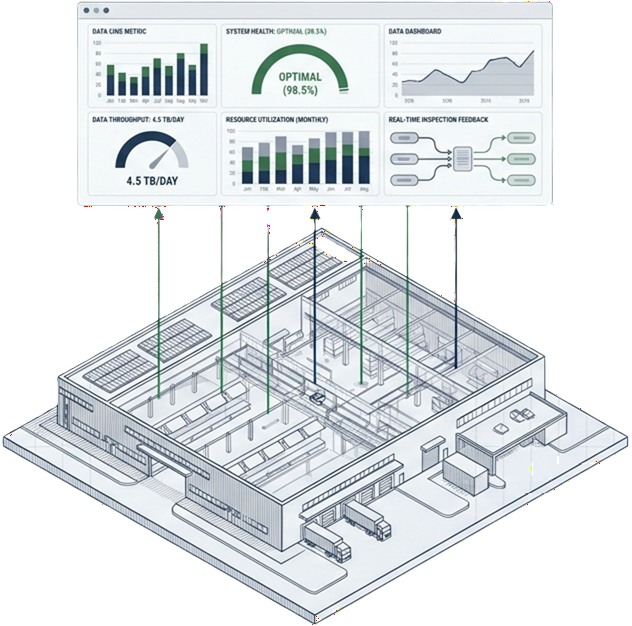
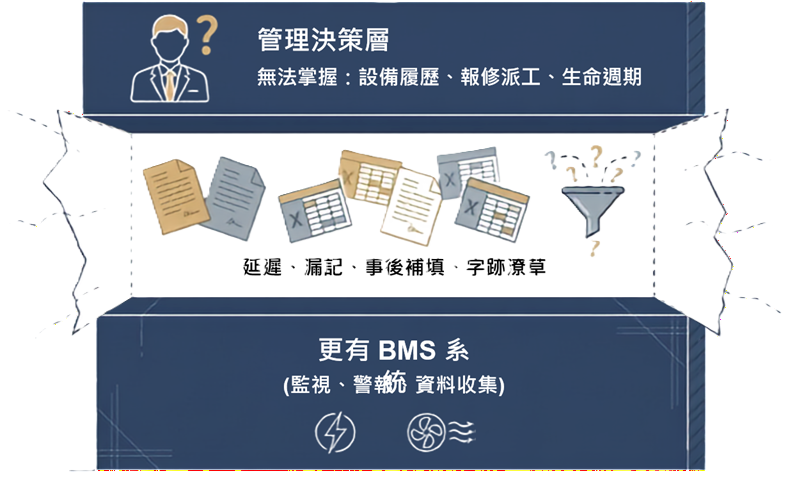
封面改為圖置中+四角缺口卡片十字排版

diff --git a/slide.html b/slide.html
@@ -178,19 +178,48 @@
 
     <!-- 封面 -->
     <section data-background-color="#020b18">
-      <div style="display:grid; grid-template-columns:1.2fr 0.8fr; gap:20px; align-items:center; height:100%;">
-        <div class="title-slide" style="text-align:left; padding-left:30px;">
-          <div class="tag">壹、緣起</div>
-          <h1 style="font-size:2.4em; line-height:1.2;">數位化巡檢管理系統</h1>
-          <h2 style="color:var(--cyan); margin-top:0.2em; font-size:1.3em;">臺北農產 · 第一果菜市場</h2>
-          <p class="subtitle" style="font-size:0.55em; margin-top:0.3em;">從基礎監控邁向全生命週期智慧管理</p>
-          <p class="author" style="text-align:left; margin-top:1.5em;">設備巡檢 / 報修 / 派工系統規劃</p>
+      <div style="display:flex; flex-direction:column; align-items:center; justify-content:center; height:100%; gap:14px;">
+        <!-- Tagline -->
+        <div class="tag" style="font-size:0.4em; background:transparent; color:var(--cyan); border:1px solid rgba(0,212,255,0.25); margin-bottom:4px;">壹、緣起</div>
+        <h2 style="font-size:0.85em; color:#cce8f4; max-width:80%; line-height:1.5; margin:0;">
+          硬體已升級，管理數據卻仍在「紙本斷層」中迷失
+        </h2>
+        <!-- Cross layout: top card -->
+        <div style="display:grid; grid-template-columns:120px 1fr 120px; gap:12px; align-items:center; width:90%; max-width:900px;">
+          <!-- left card -->
+          <div style="background:rgba(0,212,255,0.04); border-radius:8px; padding:10px; text-align:center; border-top:3px solid var(--green);">
+            <div style="font-size:1.8em; color:var(--green); margin-bottom:2px;">✓</div>
+            <div style="font-size:0.38em; color:#8ab4cc; line-height:1.5;">設備監視<br>資料蒐集<br>異常警報</div>
+          </div>
+          <!-- center image -->
+          <div style="text-align:center;">
+            <img src="assets/img/cover-art.png" alt=""
+                 style="max-width:85%; max-height:38vh; border-radius:12px;
+                        box-shadow:0 0 30px rgba(0,212,255,0.12);
+                        display:block; margin:0 auto;">
+          </div>
+          <!-- right card -->
+          <div style="background:rgba(255,179,0,0.06); border-radius:8px; padding:10px; text-align:center; border-top:3px solid var(--amber);">
+            <div style="font-size:1.8em; color:var(--amber); margin-bottom:2px;">✗</div>
+            <div style="font-size:0.38em; color:var(--amber); line-height:1.5;">缺乏<br>設備履歷<br>巡檢排程</div>
+          </div>
         </div>
-        <div style="text-align:center;">
-          <img src="assets/img/cover-art.png" alt=""
-               style="max-width:90%; max-height:55vh; border-radius:12px;
-                      box-shadow:0 0 30px rgba(0,212,255,0.12);">
+        <!-- bottom row: two cards -->
+        <div style="display:grid; grid-template-columns:120px 1fr 120px; gap:12px; width:90%; max-width:900px;">
+          <div></div>
+          <div style="display:grid; grid-template-columns:1fr 1fr; gap:12px;">
+            <div style="background:rgba(255,179,0,0.06); border-radius:8px; padding:10px; text-align:center; border-top:3px solid var(--amber);">
+              <div style="font-size:1.8em; color:var(--amber); margin-bottom:2px;">✗</div>
+              <div style="font-size:0.38em; color:var(--amber); line-height:1.5;">缺乏<br>報修派工<br>生命週期管理</div>
+            </div>
+            <div style="background:rgba(255,59,59,0.06); border-radius:8px; padding:10px; text-align:center; border-top:3px solid var(--red);">
+              <div style="font-size:1.8em; color:var(--red); margin-bottom:2px;">✗</div>
+              <div style="font-size:0.38em; color:var(--red); line-height:1.5;">缺乏<br>決策分析<br>管理層儀表板</div>
+            </div>
+          </div>
+          <div></div>
         </div>
+        <p style="font-size:0.38em; color:#5a8ab0; margin-top:4px;">數位化巡檢管理系統 規劃</p>
       </div>
     </section>
 
